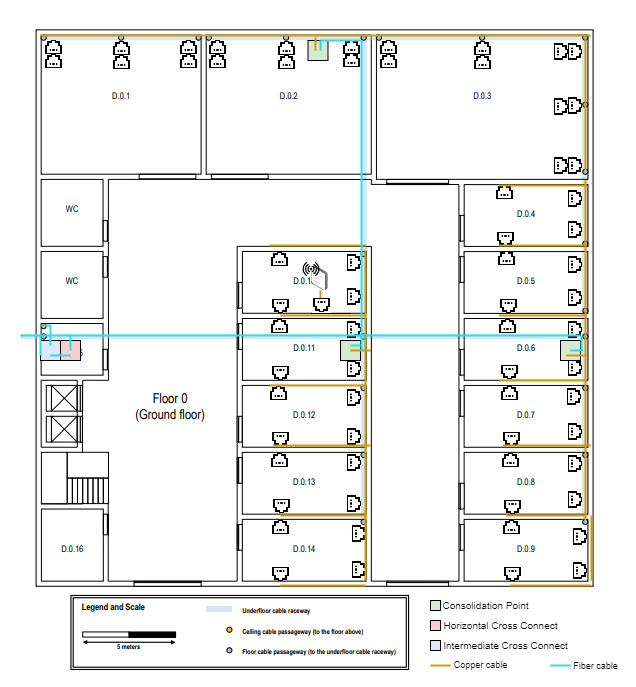
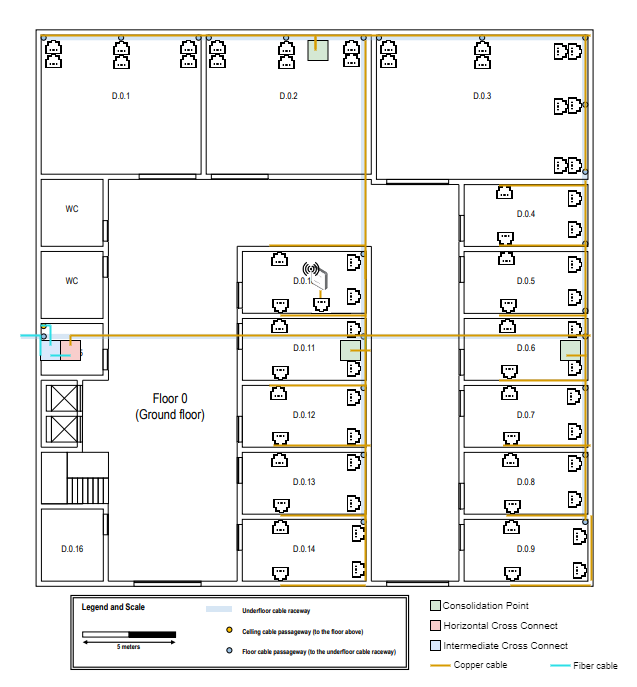
Small correction regarding cable types - Building D

diff --git a/doc/sprint1/BuildingD_1211016/README.md b/doc/sprint1/BuildingD_1211016/README.md
@@ -65,7 +65,7 @@ Assim, a abordagem segue os seguintes passos:
 
 ### 2.5 Definir tipos de cabos ###
 
-* Em contexto horizontal, serão utilizados cabos de cobre CAT6 ou superior, entre os cross connects, serão preferidos cabos de fibra ótica, por causa dos seus benefícios em bandwidth e compatibilidade.
+* Em contexto horizontal, serão utilizados cabos de cobre CAT6 ou superior, entre os cross connects, com algumas exceções, serão preferidos cabos de fibra ótica, por causa dos seus benefícios em bandwidth e compatibilidade.
 
 ### 2.6 Manter um inventário ###
 
@@ -197,11 +197,11 @@ Total: 133 outlets
 
 * A sala D.0.15 foi escolhida para acolher o IC (Intermediate Cross-connect) e o HC deste piso.
 * O IC está conectado ao exterior através de um cabo de fibra ótica (até ao Main Cross-connect do piso A).
-* O patch pannel do IC apenas terá 12 portas, uma vez que só terá ligação ao Main Cross-connect e aos dois HC's, havendo a possíbilidade de 4 ligações redundantes a estes em configuração **LAG**.
-* Todas as conexões entre o os cross-connects são feitas através de cabos de fibra ótica.
-* As ligações entre Consolidation Points e outlets são feitas através de cabos de cobre.
-* O patch pannel do HC está dividido em 2 partes, uma para as ligações ao IC e outra para as ligações aos CP's. Por estar ligado a 4 dispositivos, este terá que ter 24 portas, para manter a mesma configuração do IC.
-* Os CP's deverão ter patch pannels com 48 portas para acomodar a ligação às outlets (cabo de cobre) que servem e poderem ter ligações redundantes (LAG) aos HC's (cabo de fibra ótica).
+* O patch pannel do IC terá 24 portas, uma vez que terá ligação ao Main Cross-connect e aos dois HC's, havendo a possíbilidade de 4 ligações redundantes a estes em configuração **LAG** (cabo de fibra ótica).
+* Todas as conexões entre o os IC e HC são feitas através de cabos de fibra ótica.
+* As ligações restantes são feitas através de cabos de cobre (outlets e CP's).
+* O patch pannel do HC está dividido em 2 partes, uma para as ligações ao IC e outra para as ligações aos CP's. Por estar ligado a 4 dispositivos, este terá que ter 24 portas, para manter a mesma configuração do IC (4 ligações redundantes em LAG).
+* Os CP's deverão ter patch pannels com 48 portas para acomodar a ligação às outlets (cabo de cobre) que servem e poderem ter ligações redundantes (LAG) ao HC (cabo de cobre).
 * **O access point** foi colocado num outlet da sala D.0.10, ocupando uma posição central de forma a cobrir todo o piso 0 (raio de 30m).
 * As ligações com cabos foram todas passadas pelas canaletas existentes no chão.
 
@@ -214,11 +214,11 @@ Total: 133 outlets
 
 * A sala D.1.8 foi escolhida para acolher o HC deste piso.
 * Neste caso, não havendo canaletas no chão, os cabos foram passados pelo teto falso, o que permitiu ligações mais diretas, como se pode ver na figura.
-* O HC deste piso está conectado ao IC do piso 0 através de um cabo de fibra ótica.
+* O HC deste piso está conectado ao IC do piso 0 através de 4 cabo de fibra ótica em configuração LAG.
 * Mais uma vez, o access point foi colocado numa posição central, pelas mesmas razões, no entanto com um ligeiro offset em relação ao AP do piso inferior e com um canal Wi-Fi distinto para evitar interferências.
-* Tal como no piso inferior, o patch pannel do HC está dividido em 2 partes, uma para as ligações ao IC e outra para as ligações aos CP's. Por estar ligado a 4 dispositivos, este terá que ter 24 portas, para manter a mesma configuração do IC.
-* Os CP's deverão ter patch pannels com 48 portas para acomodar a ligação às outlets (cabo de cobre) que servem e poderem ter ligações redundantes (LAG) aos HC's (cabo de fibra ótica).
-* As ligações com cabos de fibra ótica foram todas passadas pelo teto falso, as restantes, por furos entre as paredes.
+* Tal como no piso inferior, o patch pannel do HC está dividido em 2 partes, uma para as ligações ao IC e outra para as ligações aos CP's. Por estar ligado a 4 dispositivos, este terá que ter 24 portas, para manter a mesma configuração do IC (4 ligações redundantes em LAG).
+* Os CP's deverão ter patch pannels com 48 portas para acomodar a ligação às outlets (cabo de cobre) que servem e poderem ter ligações redundantes (LAG) ao HC (cabo de cobre).
+* As ligações com cabos de fibra ótica foram todas passadas pelo teto falso, as restantes, por entre as paredes.
 
 
 ## 6. Inventário ##
@@ -257,7 +257,12 @@ Para calcular o comprimento de fio de cobre necessário para o access point, foi
 1 Access Point:   
 -> 1.9 m
 
-Total: 710.24 + 35.51 (margem de segurança de 5%) = 745.75 m
+3 Consolidation Points:   
+-> 4 * (15.1 + 1) = 64,40 m   
+-> 4 * (27.35 + 1) = 113.43 m   
+-> 4 * (33.01 + 1) = 136.08 m
+
+Total: 1024.15 + 51.2 (margem de segurança de 5%) = 1075.35 m
 
 **Fibra ótica de modo único**
 
@@ -265,19 +270,13 @@ Ligações entre o IC e os HC's (2):
 -> 4 * 1 = 4 m   
 -> 4 * 5 = 20 m (para o piso superior)
 
-3 Consolidation Points:   
--> 4 * (15.1 + 1) = 64,40 m   
--> 4 * (27.35 + 1) = 113.43 m   
--> 4 * (33.01 + 1) = 136.08 m   
 
-Total: 337.91 + 16.89 (margem de segurança de 5%) = 354.8 m
+Total: 24 + 1.2 (margem de segurança de 5%) = 25.2 m
 
 
 **Patch panels e patch cords**
 
 Dado que no piso 0 existem 67 outlets, serão necessários pelo menos 3 patch panels de 24 portas. No entanto, é recomendável que os CP's que sirvam um número próximo de 24 outlets tenham patch panels de 48 portas.
-
-Serão necessários 67 patch cords para ligar os patch panels aos outlets.
 
 
 
@@ -314,34 +313,33 @@ Para calcular o comprimento de fio de cobre necessário para o access point, foi
 1 Access Point:    
 -> 1.9 m   
 
-Total: 840.17 + 42.0 (margem de segurança de 5%) = 882.17 m
-
-**Fibra ótica de modo único**
-
 3 Consolidation Points:   
 -> 4 * (15.1 + 2.5 + 1) = 74.4 m   
 -> 4 * (17.0 + 2.5 + 1) = 82 m   
--> 4 * (28.3 + 2.5 + 1) = 127.2 m   
-  
-Total: 283.4 + 14.17 (margem de segurança de 5%) = 297.57 m   
+-> 4 * (28.3 + 2.5 + 1) = 127.2 m  
+
+Total: 1123.77 + 56.2 (margem de segurança de 5%) = 1179.97 m
+
+**Fibra ótica de modo único**
+
+Neste piso não é considerada a fibra ótica, uma vez que já foi considerada no piso 0.
 
 
-**Patch panels e patch cords**
+**Patch panels**
 
-Dado que no piso 1 existem 66 outlets, serão necessários pelo menos 3 patch panels de 24 portas. No entanto, é recomendável que os CP's que sirvam um número próximo de 24 outlets tenham patch panels de 48 portas.
+Dado que no piso 1 existem 66 outlets, serão necessários pelo menos 3 patch panels de 24 portas. No entanto, é recomendável que os CP's que sirvam um número próximo de 24 outlets tenham 48 portas (6 patch pannels).
 
-Serão necessários 66 patch cords para ligar os patch panels aos outlets.
 
 ### 6.2 Inventário ###
 
-|            | Fio de cobre Cat6a (m) | Fio de fibra ótica modo único (m) | Outlets | Access Points | Patch Panels | Patch Cords |
-|------------|:----------------------:|:---------------------------------:|:-------:|:-------------:|:------------:|:-----------:|
-| **Piso 0** |         745.75         |               354.8               |   67    |       1       |      5       |     67      |
-| **Piso 1** |         882.17         |              297.57               |   66    |       1       |      4       |     66      |
-| **Total**  |        1627.92         |              652.37               |   133   |       2       |      9       |     133     |   
+|            | Fio de cobre Cat6a (m) | Fio de fibra ótica modo único (m) | Outlets | Access Points | Patch Panels |
+|------------|:----------------------:|:---------------------------------:|:-------:|:-------------:|:------------:|
+| **Piso 0** |        1075.35         |               25.2                |   67    |       1       |      8       |
+| **Piso 1** |        1179.97         |                 0                 |   66    |       1       |      7       |
+| **Total**  |        2255.32         |               25.2                |   133   |       2       |      15      |   
 
 **No caso dos patch pannels...**
-* O IC tem patch panel de 12 portas.
+* O IC tem patch panel de 24 portas.
 * Os HC's têm patch panels de 24 portas.
 * Os CP's têm patch panels de 48 portas.
 

diff --git a/doc/sprint1/GlobalInventory.md b/doc/sprint1/GlobalInventory.md
@@ -3,10 +3,10 @@
 * The following table contains the global inventory for the structured cabling project.
 * The table is organized by building
 
-|                | Fio de cobre Cat6a (m) | Fio de fibra ótica modo único (m) | Outlets | Access Points | Patch Panels | Patch Cords |
-|----------------|:----------------------:|:---------------------------------:|:-------:|:-------------:|:------------:|:-----------:|
-| **Building A** |                        |                                   |         |               |              |             |
-| **Building B** |                        |                                   |         |               |              |             |
-| **Building C** |                        |                                   |         |               |              |             |
-| **Building D** |          1627          |              652.37               |   133   |       2       |      9       |     133     |
-| **Total**      |                        |                                   |         |               |              |             | 
+|                | Fio de cobre Cat6a (m) | Fio de fibra ótica modo único (m) | Outlets | Access Points | Patch Panels |
+|----------------|:----------------------:|:---------------------------------:|:-------:|:-------------:|:------------:|
+| **Building A** |                        |                                   |         |               |              |
+| **Building B** |                        |                                   |         |               |              |
+| **Building C** |                        |                                   |         |               |              |
+| **Building D** |        2255.32         |               25.2                |   133   |       2       |      15      |  
+| **Total**      |                        |                                   |         |               |              | 
